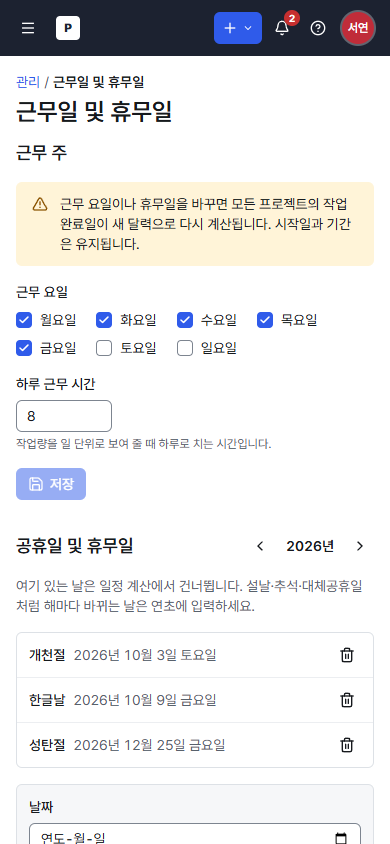
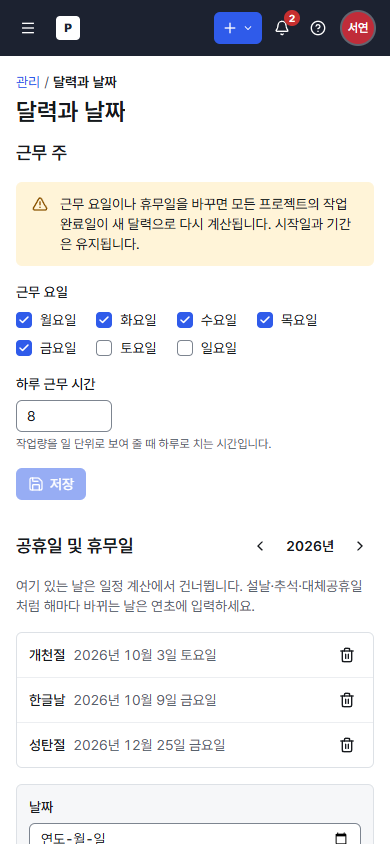
fix: work without remaining work counts as not started in % totals; quick view changes build on each other
- weighted % complete (an item's totals and the list sums): an item with work but no remaining work
  recorded has done nothing yet, instead of counting as finished (신규 합계 showed 100 %)
- the list's view menu and toolbar change the spec through an updater on the latest spec, so a second
  change made before the URL catches up no longer drops the first
- captures of the screens changed since 1.0: grouped list with sums, basic board, board filters, 달력과 날짜

Changed region(s): [[0.0308, 0.0924, 0.4615, 0.154]]

diff --git a/frontend/src/pages/work-packages/list.tsx b/frontend/src/pages/work-packages/list.tsx
@@ -159,7 +159,8 @@ export function WorkPackagesPage() {
           items: allColumns.filter((c) => c !== "subject").map((c) => ({
             label: columnLabel(c),
             checked: spec.columns.includes(c),
-            onSelect: () => state.setSpec({ ...spec, columns: spec.columns.includes(c) ? spec.columns.filter((x) => x !== c) : allColumns.filter((x) => x === c || spec.columns.includes(x)) }),
+            onSelect: () =>
+              state.setSpec((s) => ({ ...s, columns: s.columns.includes(c) ? s.columns.filter((x) => x !== c) : allColumns.filter((x) => x === c || s.columns.includes(x)) })),
           })),
         },
         {
@@ -167,16 +168,16 @@ export function WorkPackagesPage() {
           label: t("wp.grouping.menu"),
           icon: <Group />,
           items: [
-            { label: t("wp.grouping.none"), checked: !spec.groupBy, onSelect: () => state.setSpec({ ...spec, groupBy: null }) },
+            { label: t("wp.grouping.none"), checked: !spec.groupBy, onSelect: () => state.setSpec((s) => ({ ...s, groupBy: null })) },
             ...groupColumns.map((c) => ({
               label: columnLabel(c),
               checked: spec.groupBy === c,
               // grouped lists are flat, as in the original
-              onSelect: () => state.setSpec({ ...spec, groupBy: c, hierarchy: false }),
+              onSelect: () => state.setSpec((s) => ({ ...s, groupBy: c, hierarchy: false })),
             })),
           ],
         },
-        { label: t("wp.grouping.sums"), icon: <Sigma />, checked: spec.sums, onSelect: () => state.setSpec({ ...spec, sums: !spec.sums }) },
+        { label: t("wp.grouping.sums"), icon: <Sigma />, checked: spec.sums, onSelect: () => state.setSpec((s) => ({ ...s, sums: !s.sums })) },
         ...(view && view.kind !== "default"
           ? [
               { kind: "separator" as const },
@@ -232,7 +233,7 @@ export function WorkPackagesPage() {
                 {t("wp.filters")} {filterCount > 0 && <Counter>{filterCount}</Counter>}
               </Button>
               {project && spec && (
-                <Button aria-pressed={spec.includeSubprojects} icon={<FolderTree />} onClick={() => state.setSpec({ ...spec, includeSubprojects: !spec.includeSubprojects })}>
+                <Button aria-pressed={spec.includeSubprojects} icon={<FolderTree />} onClick={() => state.setSpec((s) => ({ ...s, includeSubprojects: !s.includeSubprojects }))}>
                   <span className="hidden xl:inline">{t("wp.includeSubprojects")}</span>
                   <span className="sr-only xl:hidden">{t("wp.includeSubprojects")}</span>
                 </Button>
@@ -242,7 +243,7 @@ export function WorkPackagesPage() {
                   aria-pressed={spec.hierarchy}
                   icon={<ListTodo />}
                   title={spec.groupBy ? t("wp.grouping.noHierarchy") : undefined}
-                  onClick={() => state.setSpec({ ...spec, hierarchy: !spec.hierarchy, groupBy: spec.hierarchy ? spec.groupBy : null })}
+                  onClick={() => state.setSpec((s) => ({ ...s, hierarchy: !s.hierarchy, groupBy: s.hierarchy ? s.groupBy : null }))}
                 >
                   <span className="hidden xl:inline">{t("wp.hierarchy")}</span>
                   <span className="sr-only xl:hidden">{t("wp.hierarchy")}</span>

diff --git a/frontend/src/features/work-packages/view-state.ts b/frontend/src/features/work-packages/view-state.ts
@@ -2,7 +2,7 @@
 //   ?view=<saved query id>   which saved/default view is the starting point
 //   ?q=<base64url spec>      unsaved changes on top of it (filters, sort, columns…)
 //   ?page=&size=             pagination
-import { useCallback, useMemo } from "react";
+import { useCallback, useMemo, useRef } from "react";
 import { useSearchParams } from "react-router";
 import type { QuerySpec, SavedQuery } from "@/api";
 import { useSavedQueries } from "@/api/hooks";
@@ -35,16 +35,24 @@ export function useListState(projectId: string | undefined) {
   const page = Math.max(1, Number(params.get("page") ?? 1) || 1);
   const pageSize = [20, 100].includes(Number(params.get("size"))) ? Number(params.get("size")) : 20;
 
+  // The router applies a URL change in a transition: two quick changes (menu, menu again) must build on each other,
+  // not both on the spec of the last render. An updater gets the latest spec, changes made since included.
+  const latest = useRef(spec);
+  latest.current = spec;
   const setSpec = useCallback(
-    (next: QuerySpec) =>
+    (next: QuerySpec | ((prev: QuerySpec) => QuerySpec)) => {
+      const value = typeof next === "function" ? (latest.current ? next(latest.current) : null) : next;
+      if (!value) return;
+      latest.current = value;
       setParams(
         (p) => {
-          p.set("q", encodeSpec(next));
+          p.set("q", encodeSpec(value));
           p.delete("page");
           return p;
         },
         { replace: true },
-      ),
+      );
+    },
     [setParams],
   );
   const resetToView = useCallback((id?: string) => setParams((p) => (p.delete("q"), p.delete("page"), id && p.set("view", id), p)), [setParams]);

diff --git a/frontend/src/api/fake/query.ts b/frontend/src/api/fake/query.ts
@@ -319,8 +319,10 @@ function accumulate(w: DbWp, cols: ColumnKey[], acc: Record<string, number>) {
   if (w.workHours !== null) acc.work = (acc.work ?? 0) + w.workHours;
   if (w.remainingHours !== null) acc.remainingWork = (acc.remainingWork ?? 0) + w.remainingHours;
   if (cols.includes("doneRatio") && !db.statuses.find((s) => s.id === w.statusId)?.excludedFromTotals) {
-    if (w.workHours !== null) acc["%work"] = (acc["%work"] ?? 0) + w.workHours;
-    if (w.remainingHours !== null) acc["%remaining"] = (acc["%remaining"] ?? 0) + w.remainingHours;
+    if (w.workHours !== null) {
+      acc["%work"] = (acc["%work"] ?? 0) + w.workHours;
+      acc["%remaining"] = (acc["%remaining"] ?? 0) + (w.remainingHours ?? w.workHours); // nothing recorded: not started
+    }
     if (w.doneRatio !== null) {
       acc["%sum"] = (acc["%sum"] ?? 0) + w.doneRatio;
       acc["%count"] = (acc["%count"] ?? 0) + 1;

diff --git a/frontend/src/api/fake/progress.ts b/frontend/src/api/fake/progress.ts
@@ -49,7 +49,9 @@ export function totalsOf(w: DbWp): { workHours: number | null; remainingHours: n
   const rems = counted.filter((x) => x.remainingHours !== null);
   const remaining = rems.length ? round2(rems.reduce((n, x) => n + x.remainingHours!, 0)) : null;
   let ratio: number | null;
-  if (progressSettings().totals === "weighted") ratio = work ? Math.round(((work - (remaining ?? 0)) / work) * 100) : null;
+  // no remaining work recorded: nothing done yet (as the work mode would derive it)
+  const left = works.reduce((n, x) => n + (x.remainingHours ?? x.workHours!), 0);
+  if (progressSettings().totals === "weighted") ratio = work ? Math.round(((work - left) / work) * 100) : null;
   else {
     const rs = counted.filter((x) => x.doneRatio !== null);
     ratio = rs.length ? Math.round(rs.reduce((n, x) => n + x.doneRatio!, 0) / rs.length) : null;

diff --git a/frontend/e2e/f00-sso.spec.ts b/frontend/e2e/f00-sso.spec.ts
@@ -88,7 +88,7 @@ test.describe.serial("F00 SSO", () => {
     await expect(page.getByLabel("현재 비밀번호")).toHaveCount(0);
     await expect(page.getByText(/사내 계정\(으\)로 로그인하고 있어 비밀번호가 없습니다/)).toBeVisible();
     await page.getByRole("button", { name: "비밀번호 만들기 링크 받기" }).click();
-    await expect(page.getByText(/\(으\)로 링크를 보냈습니다/)).toBeVisible();
+    await expect(page.getByText(/\(으\)로 링크를 보냈습니다/).first()).toBeVisible();
     await axe(page, "S37 계정 설정 (SSO)");
   });
 });

diff --git a/backend/src/main/java/com/openpms/wp/Progress.java b/backend/src/main/java/com/openpms/wp/Progress.java
@@ -45,7 +45,10 @@ public final class Progress {
 
     public record Item(BigDecimal work, BigDecimal remaining, Integer ratio, boolean excluded) {}
 
-    /** P4/P5 over an item and its descendants (excluded statuses left out). */
+    /**
+     * P4/P5 over an item and its descendants (excluded statuses left out). For the weighted %, an item with work but
+     * no remaining work recorded has done nothing yet (remaining = work), as the work mode would derive it.
+     */
     public static com.openpms.api.Dto.Totals totals(Settings s, List<Item> items) {
         var counted = items.stream().filter(i -> !i.excluded()).toList();
         var works = counted.stream().filter(i -> i.work() != null).toList();
@@ -54,8 +57,9 @@ public final class Progress {
         BigDecimal rem = rems.isEmpty() ? null : rems.stream().map(Item::remaining).reduce(BigDecimal.ZERO, BigDecimal::add);
         Integer ratio;
         if ("weighted".equals(s.totals())) {
+            var left = works.stream().map(i -> i.remaining() == null ? i.work() : i.remaining()).reduce(BigDecimal.ZERO, BigDecimal::add);
             ratio = work == null || work.signum() == 0 ? null
-                    : work.subtract(rem == null ? BigDecimal.ZERO : rem).multiply(BigDecimal.valueOf(100)).divide(work, 0, RoundingMode.HALF_UP).intValue();
+                    : work.subtract(left).multiply(BigDecimal.valueOf(100)).divide(work, 0, RoundingMode.HALF_UP).intValue();
         } else {
             var rs = counted.stream().filter(i -> i.ratio() != null).toList();
             ratio = rs.isEmpty() ? null : (int) Math.round(rs.stream().mapToInt(Item::ratio).average().orElse(0));

diff --git a/backend/src/test/java/com/openpms/query/GroupingIT.java b/backend/src/test/java/com/openpms/query/GroupingIT.java
@@ -117,7 +117,9 @@ class GroupingIT {
         assertThat(dec(sums.get("remainingWork"))).isEqualByComparingTo(remaining == null ? BigDecimal.ZERO : remaining);
         // % complete leaves out the statuses excluded from totals, like an item's ∑
         var countedWork = db.select(DSL.sum(WORK_PACKAGES.WORK_HOURS)).from(WORK_PACKAGES).where(counted()).fetchOne().value1();
-        var countedRemaining = db.select(DSL.sum(WORK_PACKAGES.REMAINING_HOURS)).from(WORK_PACKAGES).where(counted()).fetchOne().value1();
+        // work without remaining work recorded counts as not started
+        var countedRemaining = db.select(DSL.sum(DSL.coalesce(WORK_PACKAGES.REMAINING_HOURS, WORK_PACKAGES.WORK_HOURS))).from(WORK_PACKAGES)
+                .where(counted(), WORK_PACKAGES.WORK_HOURS.isNotNull()).fetchOne().value1();
         if (countedWork != null && countedWork.signum() > 0) {
             var expected = countedWork.subtract(countedRemaining == null ? BigDecimal.ZERO : countedRemaining).multiply(BigDecimal.valueOf(100))
                     .divide(countedWork, 0, RoundingMode.HALF_UP);
@@ -135,7 +137,7 @@ class GroupingIT {
 
     @Test
     void withSimpleAverageTotalsPercentCompleteIsTheAverageOfTheItems() throws Exception {
-        settings.put("progress.totals", "\"simple\"", null);
+        settings.put("progress.totals", "\"simple_average\"", null);
         try {
             var sums = query(spec(null, true, false), 5).get("sums");
             var avg = db.select(DSL.avg(WORK_PACKAGES.DONE_RATIO)).from(WORK_PACKAGES).where(counted(), WORK_PACKAGES.DONE_RATIO.isNotNull()).fetchOne().value1();

diff --git a/backend/src/main/java/com/openpms/query/QueryEngine.java b/backend/src/main/java/com/openpms/query/QueryEngine.java
@@ -454,8 +454,11 @@ public class QueryEngine {
         if (w.workHours() != null) acc.merge("work", w.workHours(), BigDecimal::add);
         if (w.remainingHours() != null) acc.merge("remainingWork", w.remainingHours(), BigDecimal::add);
         if (cols.contains("doneRatio") && !s.status(w.statusId()).map(Snapshot.StatusRow::excludedFromTotals).orElse(false)) {
-            if (w.workHours() != null) acc.merge("%work", w.workHours(), BigDecimal::add);
-            if (w.remainingHours() != null) acc.merge("%remaining", w.remainingHours(), BigDecimal::add);
+            if (w.workHours() != null) {
+                acc.merge("%work", w.workHours(), BigDecimal::add);
+                // no remaining work recorded: nothing done yet (Progress.totals)
+                acc.merge("%remaining", w.remainingHours() == null ? w.workHours() : w.remainingHours(), BigDecimal::add);
+            }
             if (w.doneRatio() != null) {
                 acc.merge("%sum", BigDecimal.valueOf(w.doneRatio()), BigDecimal::add);
                 acc.merge("%count", BigDecimal.ONE, BigDecimal::add);

diff --git a/backend/src/test/java/com/openpms/wp/ProgressTest.java b/backend/src/test/java/com/openpms/wp/ProgressTest.java
@@ -44,5 +44,9 @@ class ProgressTest {
         assertThat(w.remainingHours()).isEqualTo(20.0);
         assertThat(w.doneRatio()).isEqualTo(60);
         assertThat(Progress.totals(new Progress.Settings("work", false, "simple_average"), items).doneRatio()).isEqualTo(75);
+        // work without remaining work recorded: nothing done yet, not all of it
+        var unrecorded = List.of(new Progress.Item(new BigDecimal("8"), null, null, false), new Progress.Item(new BigDecimal("8"), new BigDecimal("4"), 50, false));
+        assertThat(Progress.totals(WORK, unrecorded).doneRatio()).isEqualTo(25);
+        assertThat(Progress.totals(WORK, unrecorded).remainingHours()).isEqualTo(4.0);
     }
 }
